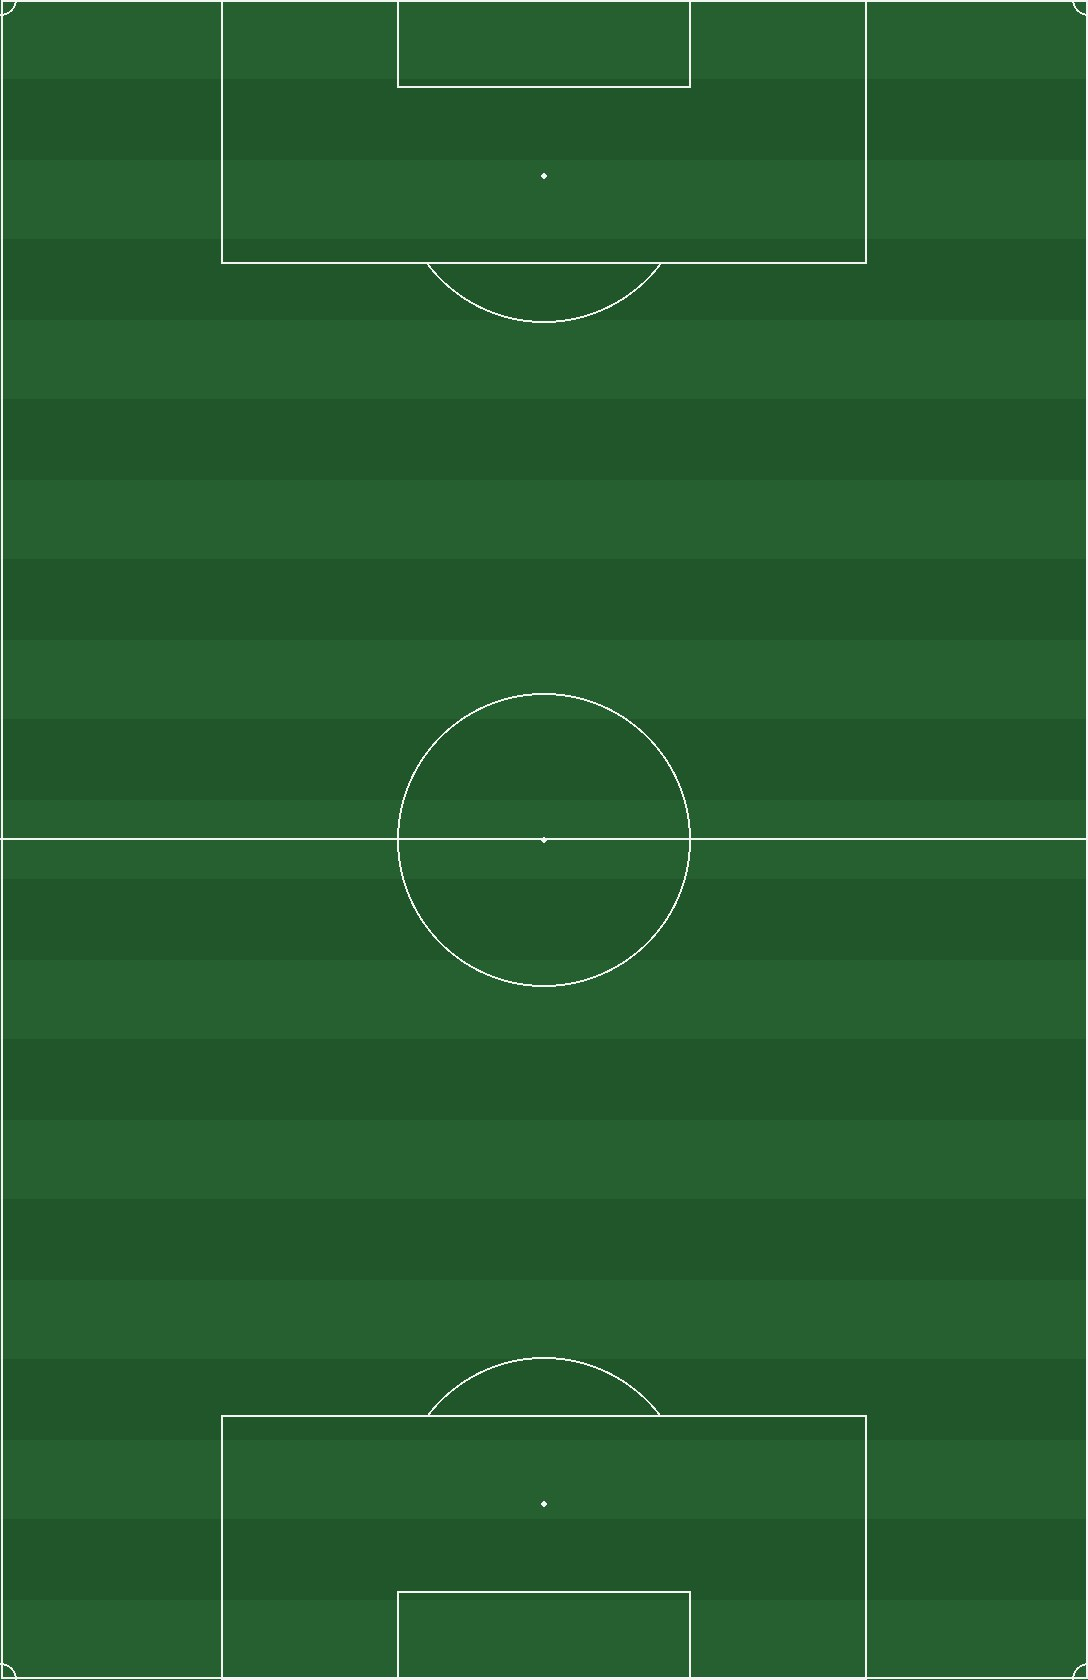
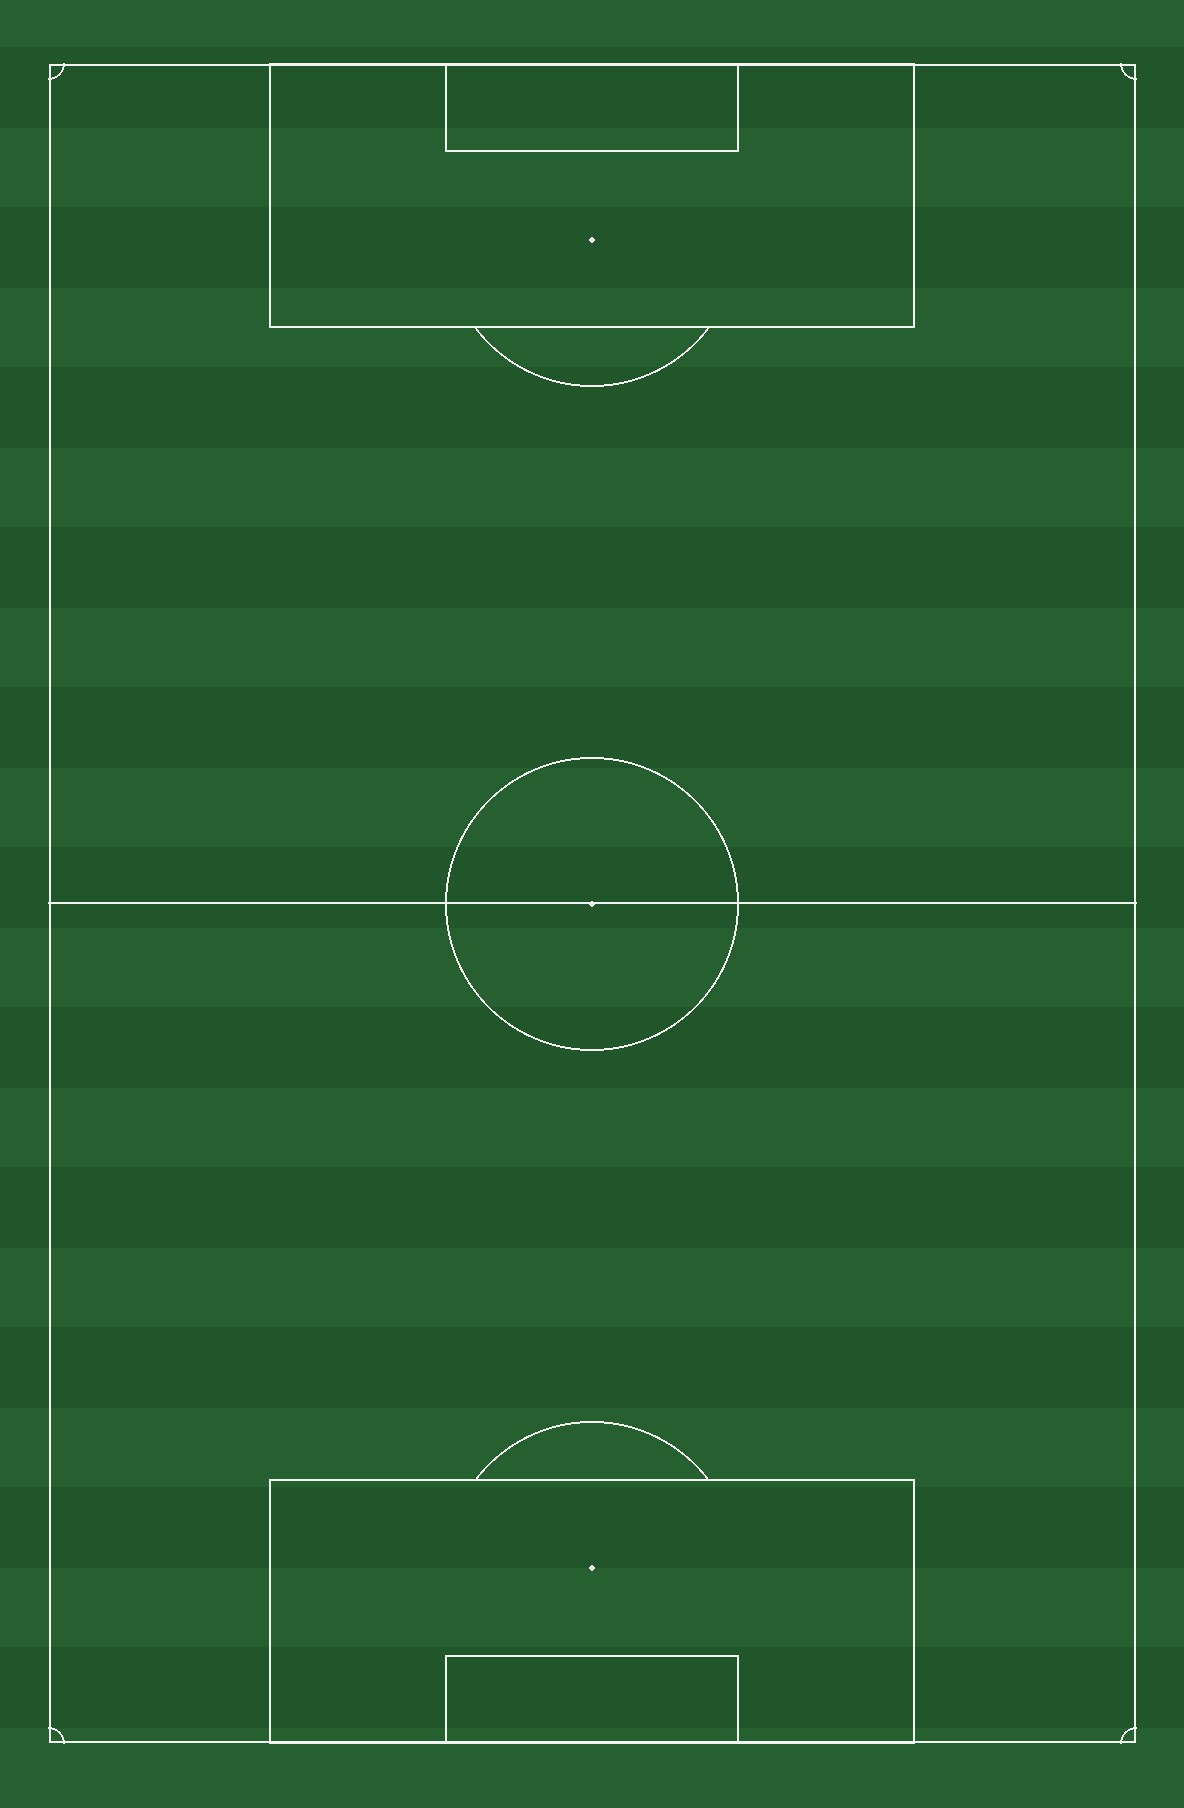
Grass behind the goal, and a time slider that knows its place
The pitch stopped dead on the goal line. The goal itself stood on the grey slab
with its net slung 2.2 m further back, so a ball crossing the line went from
green to grey at the one moment anybody is watching it, and was hard to follow.
There is now an apron of grass around the markings as a real ground has - four
metres behind each goal, three beyond each touchline - and the mowing runs
through it rather than stopping at the line.

That needed the painted slab and the marked pitch to become separate things.
Everything that measures itself against the surface was measuring against the
whole texture: the mapper spreads a play's coordinates across it and the goals
sit at half its length. Enlarging it alone would have stood all 22 players eight
metres wide of their own markings and put the goals four metres behind the goal
line. So `width`/`depth` is the painted slab, `play` is the pitch inside it, and
a surface without an apron is its own playing area as before.

  painted   113.0 x 74.0 m
  marked    105.0 x 68.0 m
  the ball now crosses the line at x=106, a metre onto the apron

The time-of-day panel was 240px of screen over the field it exists to change.
The widget ships three rows and only one of them is the control: the first reads
out the current instant, which the panel's own header already does, and the last
states the day's bounds, which are midnight to midnight. Both are gone, and the
panel is 164px and 520 wide rather than 740.
[…]

diff --git a/js/app.js b/js/app.js
@@ -120,7 +120,11 @@ const CONFIG = {
   // gets, and entry is never held up beyond hardCapMs.
   preload: {
     enabled: true,
-    views: [5, 7, 8],     // all three hand-held meshes, and the combined view
+    // Named, not numbered, for the same reason CONFIG.views is: a slide added
+    // or deleted in the web scene shifts every position after it, and this
+    // would quietly start warming the wrong views. Between them these three
+    // cover all the hand-held captures and the combined view.
+    views: ["Pix4DCatch", "Broncos Alumni", "Combined Mesh"],
     // How many of those must be warm before Explore opens. The rest are warmed
     // behind a curtain that is only still up because nobody has clicked yet,
     // and are abandoned the moment somebody does - warming means moving the
@@ -165,34 +169,42 @@ const CONFIG = {
   //   opens - a tool panel ("time", "measure") or a play key, started on arrival
   // A view whose `opens` names a play is also that play's stand camera, which
   // is what Fan Perspective flies to.
-  // `dwellMs` is how long the slideshow holds a view, where the default is not
-  // long enough. A view that exists to show something happening has to be held
-  // for as long as that thing takes, or the show cuts away in the middle of it -
-  // which is what it did to the sun walking down to midnight, giving it three
-  // and a half seconds of the whole sweep.
-  views: {
-    2:  { clock: "22:30" },
-    // Arrives at half ten, then walks the sun down to midnight and puts the
-    // panel away. "24:00" is the end of the local day, not the start of it.
-    // No dwellMs: a view that sweeps works its own out from sweepMs.
-    // The sweep is slow on purpose - that is the pace the sky actually moves at
-    // - and the stop is deliberately shorter than it. A viewer is meant to
-    // watch the stars travel a stretch of sky, not to sit through the whole
-    // walk to midnight; the slideshow moves on and the sweep is stood down.
-    // `sky` is imposed for as long as the view is on screen and handed back
-    // after. The night view is about the stars: overcast is a ceiling that
-    // hides them, and whether it happens to be cloudy in Denver tonight should
-    // not decide whether this view works.
-    3:  { clock: "22:30", opens: "time", sweepTo: "24:00", sweepMs: 26000,
-          dwellMs: 7500, sky: "sunny" },
+  // What a view does when you arrive at it.
+  //
+  // Matched on the slide's own title, not its position. Numbering these was a
+  // trap waiting to spring: deleting one slide from the web scene shifts every
+  // one after it, and the night sky, the sun sweep and the two replays would
+  // have quietly moved onto whichever views happened to inherit the numbers.
+  // A title is what the author actually chose, and it survives reordering.
+  //
+  //   clock    force the site's local wall clock to this, and put it back on
+  //            the way out, so a view authored for the dark is always dark
+  //   sky      insist on a weather for as long as the view is on screen
+  //   opens    a tool panel ("time", "measure") or a play key, on arrival
+  //   dwellMs  how long the slideshow holds it, where the default is too short
+  //
+  // `dwellMs` matters for a view that exists to show something happening: hold
+  // it for less than that thing takes and the show cuts away mid-way, which is
+  // what it did to the sun walking down to midnight.
+  views: [
+    // Both night views want their stars. An overcast ceiling hides them, and
+    // whether it happens to be cloudy in Denver tonight should not decide
+    // whether these two work.
+    { title: "Stadium at Night", clock: "22:30", sky: "sunny" },
+    // Arrives at half ten, then walks the sun down towards midnight. "24:00" is
+    // the end of the local day, not the start of it. The stop is deliberately
+    // shorter than the sweep - a viewer watches the stars travel a stretch of
+    // sky, not the whole walk.
+    { title: "Night Sky", clock: "22:30", sky: "sunny",
+      opens: "time", sweepTo: "24:00", sweepMs: 26000, dwellMs: 7500 },
     // Long enough for the replay each one starts, which is why these are not
-    // the same number: the gridiron pass runs 19.7 s and the football goal 37.5.
-    // Both allow for the pause before a replay begins - see CONFIG.arrival -
-    // and a moment on the celebration afterwards, so the show is not cutting
-    // away over somebody's shoulder.
-    9:  { opens: "gridiron", dwellMs: 26000 },
-    10: { opens: "football", dwellMs: 44000 }
-  },
+    // the same number: the gridiron pass runs 19.7 s and the football goal
+    // 37.5. Both allow for the pause before a replay begins - see
+    // CONFIG.arrival - and a moment on the celebration afterwards.
+    { title: "Fan Perspective (American Football)", opens: "gridiron", dwellMs: 26000 },
+    { title: "Fan Perspective (Football)", opens: "football", dwellMs: 44000 }
+  ],
+
 
   // Opening camera. The web scene's own initial viewpoint is used when this is
   // null. Press C in the running app to print the current camera, then paste it
@@ -250,8 +262,18 @@ const CONFIG = {
       // between the goal lines. The slab is 130 x 76.6 m and still holds this
       // comfortably - there is simply a little more of it showing round the edge.
       gridiron: { width: 48.768, depth: 109.728, texture: "./assets/field.jpg" },
-      // A full-size pitch at the top of the permitted range.
-      pitch:    { width: 68.00, depth: 105.00, texture: "./assets/pitch.jpg" }
+      // A full-size pitch at the top of the permitted range, with an apron of
+      // grass around it as a real ground has.
+      //
+      // `width`/`depth` are the painted slab; `play` is the marked pitch inside
+      // it. The two have to be told apart or everything that measures itself
+      // against the surface stretches to fill the apron - players would stand
+      // eight metres wide of their own markings and the goals would sit four
+      // metres behind the goal line.
+      pitch: {
+        width: 74.00, depth: 113.00, texture: "./assets/pitch.jpg",
+        play: { width: 68.00, depth: 105.00 }
+      }
     }
   },
 
@@ -571,7 +593,10 @@ async function warmUp(view, slides, restore,
   const home = view.camera.clone();
   onStart?.(home);
   const deadline = performance.now() + cfg.budgetMs;
-  const wanted = cfg.views.map((n) => slides[n - 1]).filter(Boolean);
+  // Same title match the rail's own views use, so both agree what a name means.
+  const wanted = cfg.views
+    .map((t) => slideNamed(slides, t))
+    .filter(Boolean);
   let done = 0;
 
   for (const slide of wanted) {
@@ -796,6 +821,7 @@ async function main() {
 
   const slides = scene.presentation?.slides?.toArray?.() ?? [];
 
+  bindViews(slides);
   const tour = buildTour(view, slides, captures);
 
   // Never gate entry on `view.updating`. Gaussian splat and integrated mesh
@@ -899,7 +925,7 @@ async function main() {
   };
 
   tour.onArrive((n) => {
-    const opens = CONFIG.views?.[n]?.opens;
+    const opens = viewAt(n)?.opens;
     if (!opens) {
       // Arriving somewhere ordinary puts away whatever a staged view opened.
       // Left alone the replay plays on and its pitch stays painted over the
@@ -926,7 +952,7 @@ async function main() {
     if (opens === "time") {
       tools.measure.close();
       autoOpened = "time";
-      const v = CONFIG.views[n];
+      const v = viewAt(n);
       // This one does not wait. A replay is a burst of movement that a
       // half-loaded scene spoils, but the sun sweep is a slow ramp - it is not
       // spoiled by tiles still arriving, and holding it back only ate the front
@@ -1128,6 +1154,48 @@ function matchLighting(slide) {
 }
 
 /**
+ * Which view number each entry in CONFIG.views turned out to be.
+ *
+ * Filled once, from the slides the web scene actually has. An entry that
+ * matches nothing is a title that has been renamed or a slide that has been
+ * deleted, and one that matches several is a title too vague to be an
+ * identifier - both say so rather than silently attaching to the wrong view.
+ */
+const viewSpecs = new Map();
+
+/**
+ * The one slide whose title matches, or nothing.
+ *
+ * Exact first, then a prefix, so a spec can name "Night Sky" and reach "Night
+ * Sky (Drone Capture)" without repeating the parenthetical. Anything that
+ * matches more than one slide is too vague to be an identifier and is refused
+ * rather than guessed at.
+ */
+function slideNamed(slides, title) {
+  const want = (title || "").trim().toLowerCase();
+  const hits = slides.filter((sl) => {
+    const t = (sl.title?.text || "").trim().toLowerCase();
+    return t === want || t.startsWith(want);
+  });
+  if (hits.length === 1) return hits[0];
+  console.warn(`[venue] "${title}" matches ${hits.length} slides - ignored`);
+  return null;
+}
+
+function bindViews(slides) {
+  viewSpecs.clear();
+  for (const spec of CONFIG.views ?? []) {
+    const hit = slideNamed(slides, spec.title);
+    if (hit) viewSpecs.set(slides.indexOf(hit) + 1, spec);
+  }
+  console.info("[venue] views bound:",
+    [...viewSpecs].map(([n, v]) => `${n} ${v.title}`).join(" | ") || "none");
+}
+
+/** The entry for a view, as the rail numbers them. */
+const viewAt = (n) => viewSpecs.get(n);
+
+/**
  * Stops a sun sweep, set by whoever owns one. Leaving a view has to stand it
  * down *before* the flight rather than on arrival at the next one: a sweep
  * writes the lighting date every few frames, so for the whole two and a half
@@ -1176,12 +1244,12 @@ function buildTour(view, slides, captures) {
     // The sky a view insists on, if any. Nothing to save and restore: `imposed`
     // is only ever set from here, so clearing it is enough to hand the weather
     // back to whatever the viewer or the feed had decided.
-    const wantSky = CONFIG.views?.[idx + 1]?.sky ?? null;
+    const wantSky = viewAt(idx + 1)?.sky ?? null;
     if (wantSky !== sky.imposed) {
       sky.imposed = wantSky;
       paintSky(view);
     }
-    const want = CONFIG.views?.[idx + 1]?.clock;
+    const want = viewAt(idx + 1)?.clock;
     if (want) {
       const [hh, mm] = want.split(":").map(Number);
       if (!clockWas) {
@@ -1203,7 +1271,7 @@ function buildTour(view, slides, captures) {
 
   /** How long to hold a view before moving on, in the slideshow. */
   function dwellFor(idx) {
-    const v = CONFIG.views?.[idx + 1];
+    const v = viewAt(idx + 1);
     if (!v) return CONFIG.slideDwellMs;
     return v.dwellMs || CONFIG.slideDwellMs;
   }
@@ -1913,6 +1981,17 @@ function buildTimeOfDay(view) {
       mode: "instant",
       fullTimeExtent: new T.TimeExtent({ start, end }),
       stops: { interval: { value: 10, unit: "minutes" } },
+      // Five ticks, not a hundred and two. The default rules the whole track
+      // and reads as texture rather than as a scale; a quarter of a day apart
+      // is as fine as anybody needs to aim by, and the stops still snap to ten
+      // minutes whatever the ticks say.
+      tickConfigs: [{
+        mode: "count",
+        values: 5,
+        labelsVisible: true,
+        labelFormatFunction: (value) => clockAt(sky.tz, { hour: "numeric" })
+          .format(new Date(value))
+      }],
       timeExtent: new T.TimeExtent({
         start: view.environment.lighting.date, end: view.environment.lighting.date
       }),
@@ -2472,9 +2551,9 @@ function buildLiveAction(view, surfacesReady, stage, slides = []) {
     const sport = CONFIG.play.plays.find((p) => p.key === active)?.sport;
     const opensOneOf = new Set(CONFIG.play.plays
       .filter((p) => p.sport === sport).map((p) => p.key));
-    const views = CONFIG.views ?? {};
-    const n = Object.keys(views).find((k) => views[k].opens === active)
-           ?? Object.keys(views).find((k) => opensOneOf.has(views[k].opens));
+    const entries = [...viewSpecs];
+    const n = entries.find(([, v]) => v.opens === active)?.[0]
+           ?? entries.find(([, v]) => opensOneOf.has(v.opens))?.[0];
     const camera = slides[Number(n) - 1]?.viewpoint?.camera;
     if (!camera) {
       console.warn(`[venue] no saved view opens "${active}"; framing the field instead`);

diff --git a/css/styles.css b/css/styles.css
@@ -1237,3 +1237,45 @@ body.hud-off .recenter { opacity: 0; pointer-events: none; }
   color: var(--accent-2); font-size: 0.9rem;
 }
 .toolmenu--wx .toolmenu__item.on { color: var(--paper); background: rgba(244,241,234,0.13); }
+
+/* ------------------------------------------------- time of day, refined */
+/* The widget ships three rows and only one of them is the control. The first
+   reads out the current instant, which the panel's own header already does, and
+   the last states the day's bounds, which are midnight to midnight and hardly
+   news. Between them that was 72px of a 240px panel spent on nothing, on top of
+   the field it is meant to be showing. */
+#timePanel { width: min(520px, calc(100vw - 2 * var(--pad))); }
+#timeHost .esri-time-slider__row:has(.esri-time-slider__time-extent),
+#timeHost .esri-time-slider__row:has(.esri-time-slider__min) { display: none; }
+/* Belt and braces for a browser without :has() - the rows collapse instead. */
+#timeHost .esri-time-slider__time-extent,
+#timeHost .esri-time-slider__min,
+#timeHost .esri-time-slider__max { display: none; }
+
+#timeHost { padding: 0.1rem 0.1rem 0; }
+#timeHost .esri-time-slider { background: transparent; }
+#timeHost .esri-time-slider__row { padding: 0; min-height: 0; }
+
+/* The track itself: thinner, and in the app's own colours rather than Calcite's
+   blue. The handle is the only thing that needs to catch the eye. */
+#timeHost .esri-slider__track { height: 3px; background: rgba(244,241,234,0.16); }
+/* segment-0 is the stretch behind the handle - the part of the day already
+   gone. Colouring segment-1 instead lit up the hours still to come, which
+   reads backwards. */
+#timeHost .esri-slider__segment-0 { background: var(--accent); }
+#timeHost .esri-slider__segment-1 { background: transparent; }
+#timeHost .esri-slider__thumb {
+  width: 15px; height: 15px; border: 2px solid var(--paper);
+  background: var(--accent); box-shadow: 0 1px 5px rgba(0,0,0,0.45);
+}
+#timeHost .esri-slider__thumb:hover { background: var(--accent-2); }
+#timeHost .esri-slider__tick { background: rgba(244,241,234,0.2); }
+#timeHost .esri-slider__tick-label {
+  font-size: 0.5rem; letter-spacing: 0.12em; text-transform: uppercase;
+  color: var(--paper-faint);
+}
+#timeHost .esri-slider__label { color: var(--paper-dim); font-size: 0.55rem; }
+
+@media (max-width: 780px), (max-height: 500px) {
+  #timePanel { width: calc(100vw - 2 * var(--pad)); }
+}

diff --git a/js/play.js b/js/play.js
@@ -199,9 +199,12 @@ export async function addPlay(view, cfg, spec) {
   const space = data.space ?? { length: 120, width: 53.333 };
   const surfaceKey = data.surface ?? "gridiron";
   const painted = cfg.field.surfaces[surfaceKey];
+  // The marked area inside the painted one. A surface without an apron is its
+  // own playing area, so this is the whole of it.
+  const marked = painted.play ?? painted;
   const dims = {
     length: space.length, width: space.width,
-    depth: painted.depth, acrossM: painted.width
+    depth: marked.depth, acrossM: marked.width
   };
 
   const surface = spec.z;
@@ -307,7 +310,7 @@ export async function addPlay(view, cfg, spec) {
   if (surfaceKey === "pitch") {
     addGoals(layer, {
       origin, sr,
-      halfLength: painted.depth / 2,
+      halfLength: marked.depth / 2,
       place: (along, across) => {
         const th = (cfg.field.rotation || 0) * DEG, ct = Math.cos(th), st = Math.sin(th);
         return [across * ct - along * st, across * st + along * ct];
@@ -441,8 +444,8 @@ export async function addPlay(view, cfg, spec) {
       const dx = c[0] - a[0], dy = c[1] - a[1], L = Math.hypot(dx, dy) || 1;
       return [dx / L, dy / L];
     },
-    halfWidth: painted.width / 2,
-    depth: painted.depth,
+    halfWidth: marked.width / 2,
+    depth: marked.depth,
     show(on) { layer.visible = !!on; if (on) poseAt(t); },
     seek(time) { t = Math.max(0, Math.min(DUR, time)); poseAt(t); emit(); },
     start() {

diff --git a/js/field.js b/js/field.js
@@ -143,9 +143,10 @@ export async function addSurfaces(view, cfg) {
       posts = addUprights(layer, {
         origin: [cfg.lon, cfg.lat, baseZ],
         sr: { wkid: 4326 },
-        // The painted texture runs end line to end line, so its own half-length
-        // is exactly where the posts stand.
-        halfLength: surface.depth / 2,
+        // Where the posts stand is the end of the *marked* area, not the end
+        // of the painted one - a surface with an apron of grass around it is
+        // wider than the pitch it carries.
+        halfLength: (surface.play ?? surface).depth / 2,
         place: (along, across) => [across * ct - along * st, across * st + along * ct],
         heading: -(cfg.rotation || 0)
       });

diff --git a/tools/make_pitch.py b/tools/make_pitch.py
@@ -29,22 +29,32 @@ def out_path(*parts):
     return dst
 
 M = 16                                   # pixels per metre
-L, W = 105.0, 68.0
+L, W = 105.0, 68.0                       # the marked pitch
+# Grass beyond the markings, as a real ground has. Without it the turf stopped
+# dead on the goal line and the goal itself stood on the grey slab - with the
+# net slung 2.2 m further back still - so a ball crossing the line went from
+# green to grey at the one moment anybody is looking at it. Four metres behind
+# each goal covers the net and then some.
+APRON_END, APRON_SIDE = 4.0, 3.0
+OL, OW = L + 2 * APRON_END, W + 2 * APRON_SIDE
 LW = max(2, int(0.12 * M))               # 12 cm lines
 
 TURF_A, TURF_B = (38, 96, 48), (32, 86, 42)
 WHITE = (243, 245, 242)
 
-img = Image.new("RGB", (int(L * M), int(W * M)), TURF_A)
+img = Image.new("RGB", (int(OL * M), int(OW * M)), TURF_A)
 d = ImageDraw.Draw(img)
 
 # Mown stripes, five metres each, running across the pitch as they usually do.
-for i in range(int(L / 5) + 1):
+# Struck across the whole apron so the mowing does not stop at the touchline.
+for i in range(int(OL / 5) + 1):
     if i % 2:
-        d.rectangle([i * 5 * M, 0, (i + 1) * 5 * M, W * M], fill=TURF_B)
+        d.rectangle([i * 5 * M, 0, (i + 1) * 5 * M, OW * M], fill=TURF_B)
 
-def X(m): return m * M
-def Y(m): return m * M
+# Everything below is drawn in pitch metres - 0,0 is the corner flag - and the
+# apron is applied here, so the markings never have to know about it.
+def X(m): return (m + APRON_END) * M
+def Y(m): return (m + APRON_SIDE) * M
 def line(x0, y0, x1, y1, w=None):
     d.line([(X(x0), Y(y0)), (X(x1), Y(y1))], fill=WHITE, width=w or LW)
 def rect(x0, y0, x1, y1):
@@ -96,3 +106,5 @@ dst = out_path("assets", "pitch.jpg")
 rot.save(dst, quality=88, optimize=True)
 print("  pitch.jpg %dx%d  %.0f KB" % (rot.size[0], rot.size[1],
                                       os.path.getsize(dst) / 1024))
+print("  %.1f x %.1f m painted, %.1f x %.1f m marked (%.1f m apron behind each goal)"
+      % (OL, OW, L, W, APRON_END))
